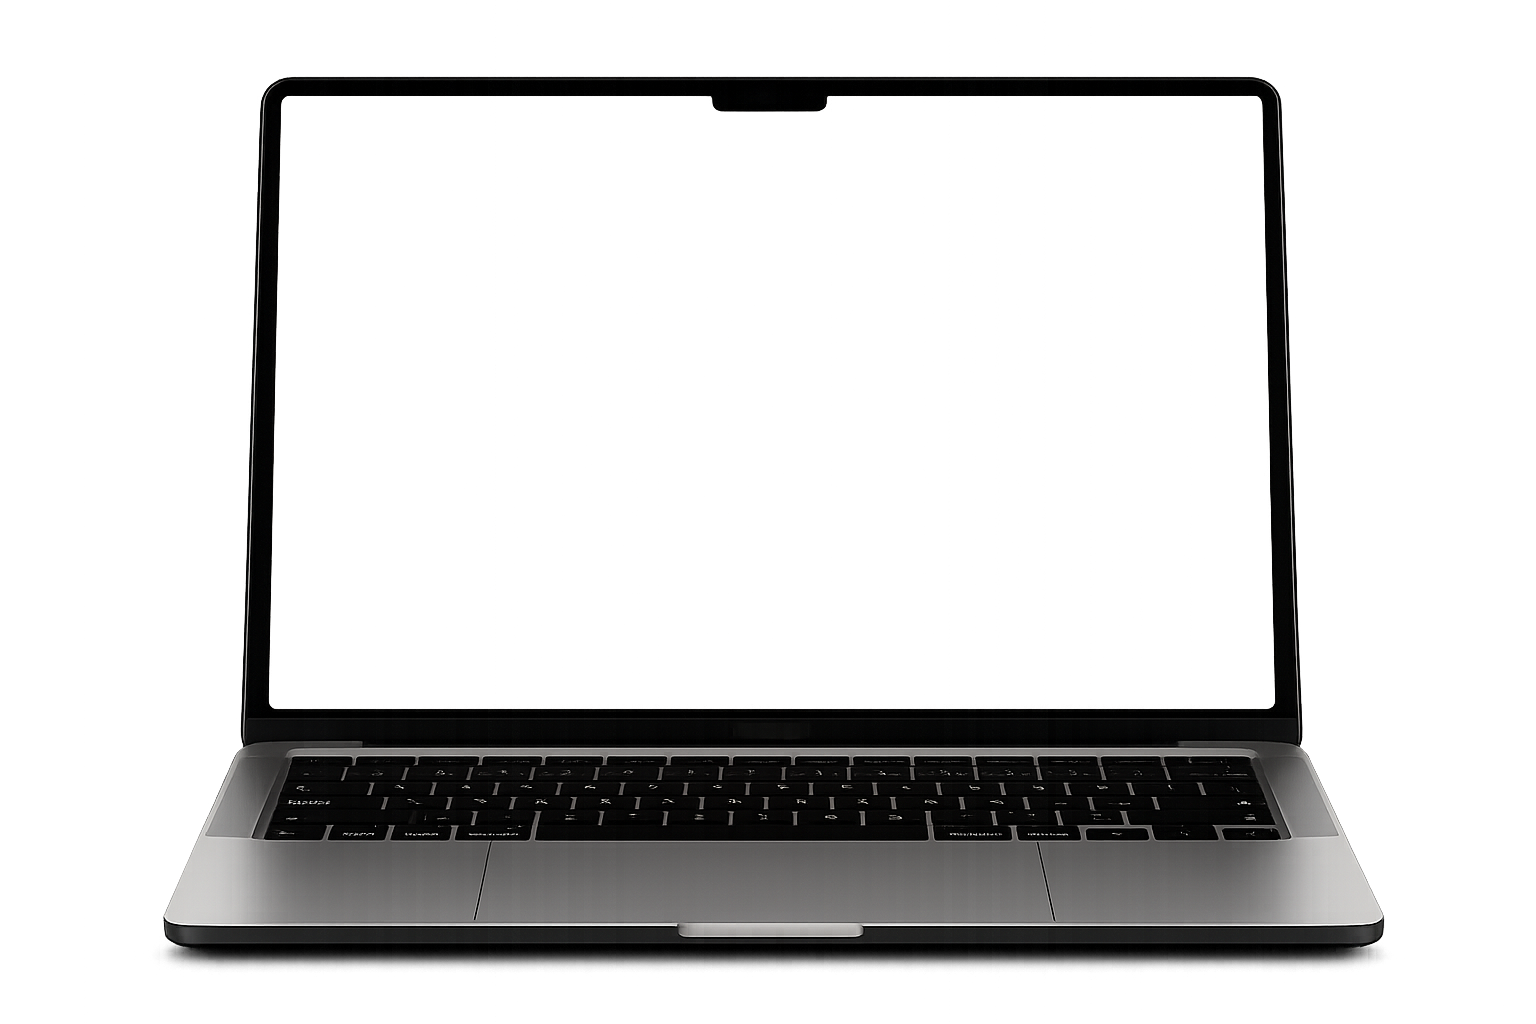
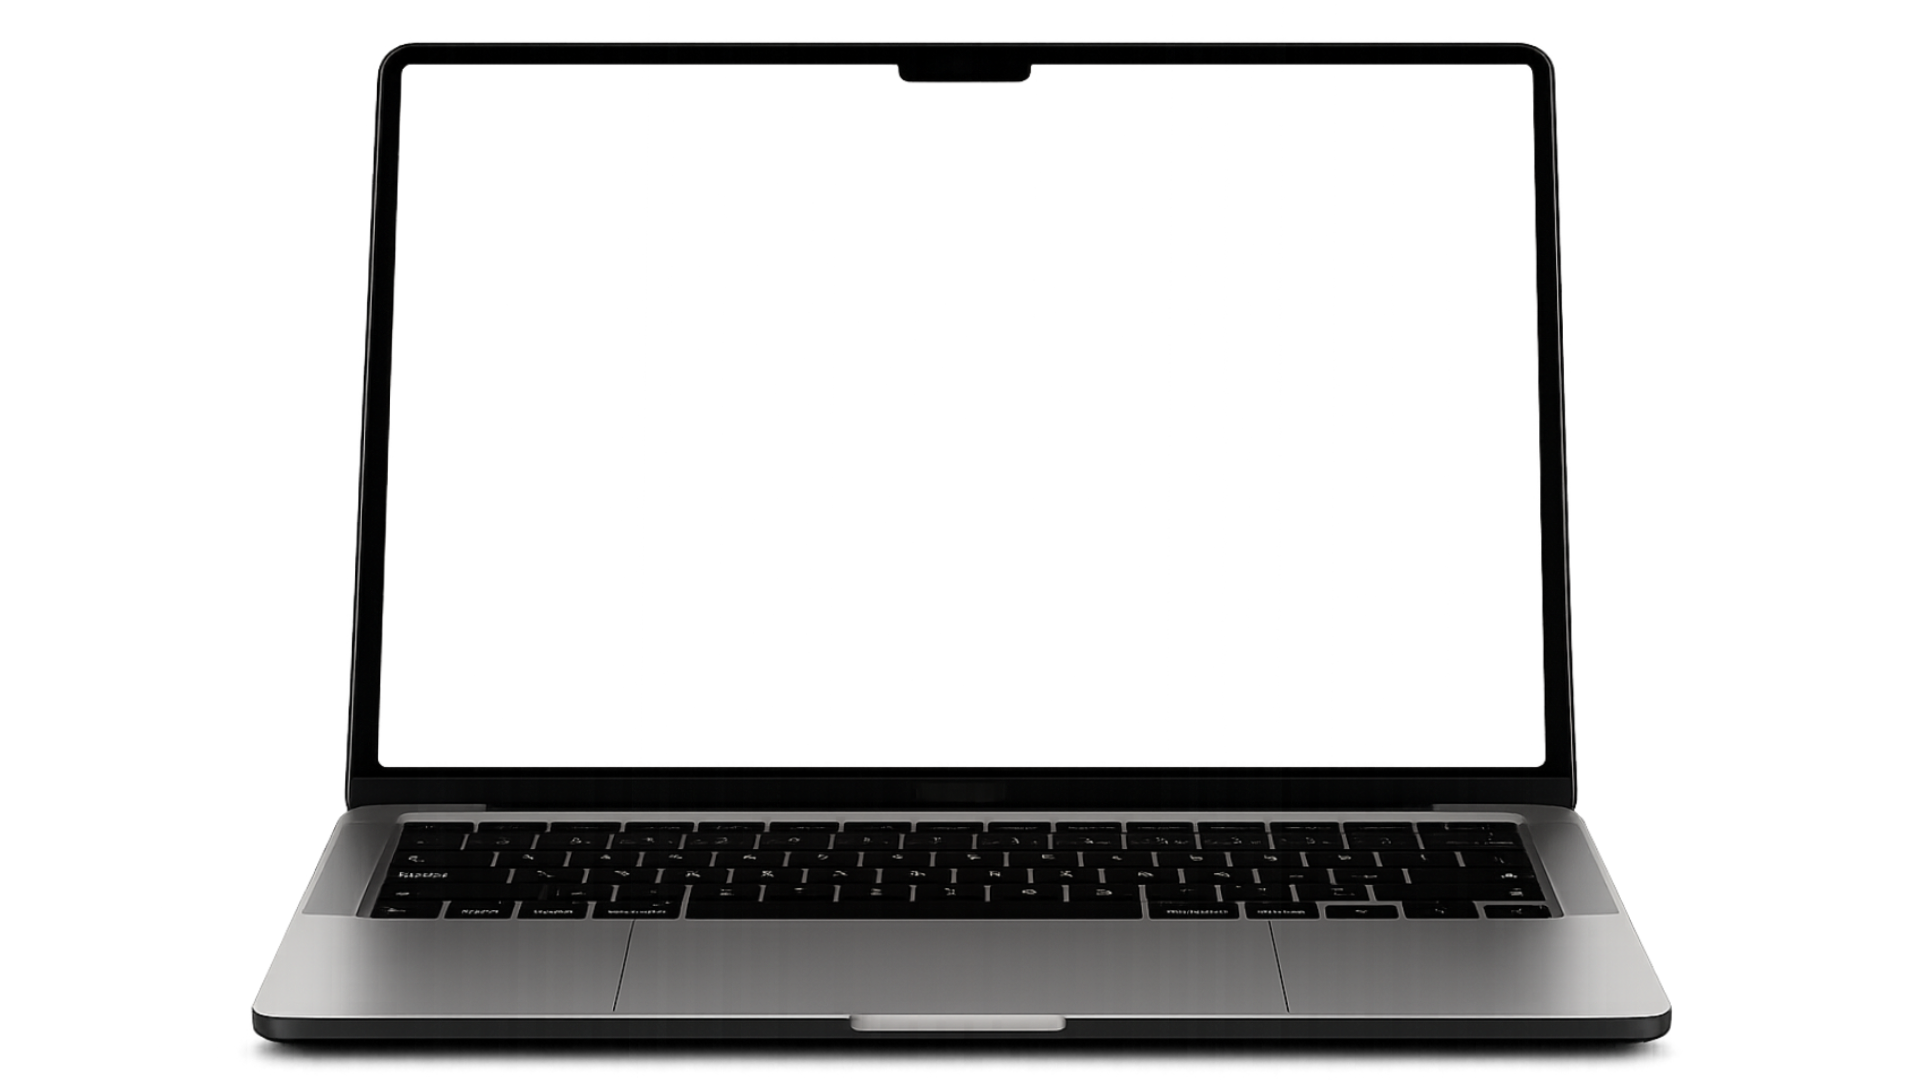
Use calibrated Genesis hero hardware render

Changed region(s): [[0.0938, 0.0312, 0.9062, 1.0]]

diff --git a/app/globals.css b/app/globals.css
@@ -68,16 +68,16 @@
   --hero-detail-y: 39.894%;
   --hero-detail-w: 43.8273%;
   --hero-detail-h: 43.8273%;
-  /* The supplied 1536×1024 hardware render is registered from its transparent
+  /* The supplied 1920×1080 hardware render is registered from its transparent
      display opening to the measured photograph display opening. */
-  --hero-hardware-desktop-x: 40.561%;
-  --hero-hardware-desktop-y: 56.089%;
-  --hero-hardware-desktop-w: 18.858%;
-  --hero-hardware-desktop-h: 21.5%;
-  --hero-hardware-mobile-x: 33.152%;
-  --hero-hardware-mobile-y: 53.027%;
-  --hero-hardware-mobile-w: 33.634%;
-  --hero-hardware-mobile-h: 13.964%;
+  --hero-hardware-desktop-x: 39.88%;
+  --hero-hardware-desktop-y: 56.464%;
+  --hero-hardware-desktop-w: 20.227%;
+  --hero-hardware-desktop-h: 19.886%;
+  --hero-hardware-mobile-x: 31.939%;
+  --hero-hardware-mobile-y: 53.121%;
+  --hero-hardware-mobile-w: 36.078%;
+  --hero-hardware-mobile-h: 12.916%;
   --hero-hardware-x: var(--hero-hardware-desktop-x);
   --hero-hardware-y: var(--hero-hardware-desktop-y);
   --hero-hardware-w: var(--hero-hardware-desktop-w);

diff --git a/components/hero/CinematicFrame.tsx b/components/hero/CinematicFrame.tsx
@@ -95,14 +95,14 @@ export function CinematicFrame({
                 <div className="hero-hardware" aria-hidden="true">
                   {/* The transform can magnify this layer beyond its resting
                       footprint, so it intentionally bypasses responsive image
-                      candidate selection and loads the supplied 1536px PNG. */}
+                      candidate selection and loads the supplied 1920px PNG. */}
                   {/* eslint-disable-next-line @next/next/no-img-element */}
                   <img
                     ref={hardwareRef}
                     src="/images/hero/macbook-hardware.png"
                     alt=""
-                    width={1536}
-                    height={1024}
+                    width={1920}
+                    height={1080}
                     loading="eager"
                     fetchPriority="high"
                     decoding="sync"

diff --git a/components/hero/HeroHardwareTuner.tsx b/components/hero/HeroHardwareTuner.tsx
@@ -6,8 +6,8 @@ type Mode = "desktop" | "mobile";
 type Geometry = Record<"x" | "y" | "w" | "h", number>;
 
 const defaults: Record<Mode, Geometry> = {
-  desktop: { x: 40.561, y: 56.089, w: 18.858, h: 21.5 },
-  mobile: { x: 33.152, y: 53.027, w: 33.634, h: 13.964 },
+  desktop: { x: 39.88, y: 56.464, w: 20.227, h: 19.886 },
+  mobile: { x: 31.939, y: 53.121, w: 36.078, h: 12.916 },
 };
 
 const fields: Array<{ key: keyof Geometry; label: string; max: number }> = [
